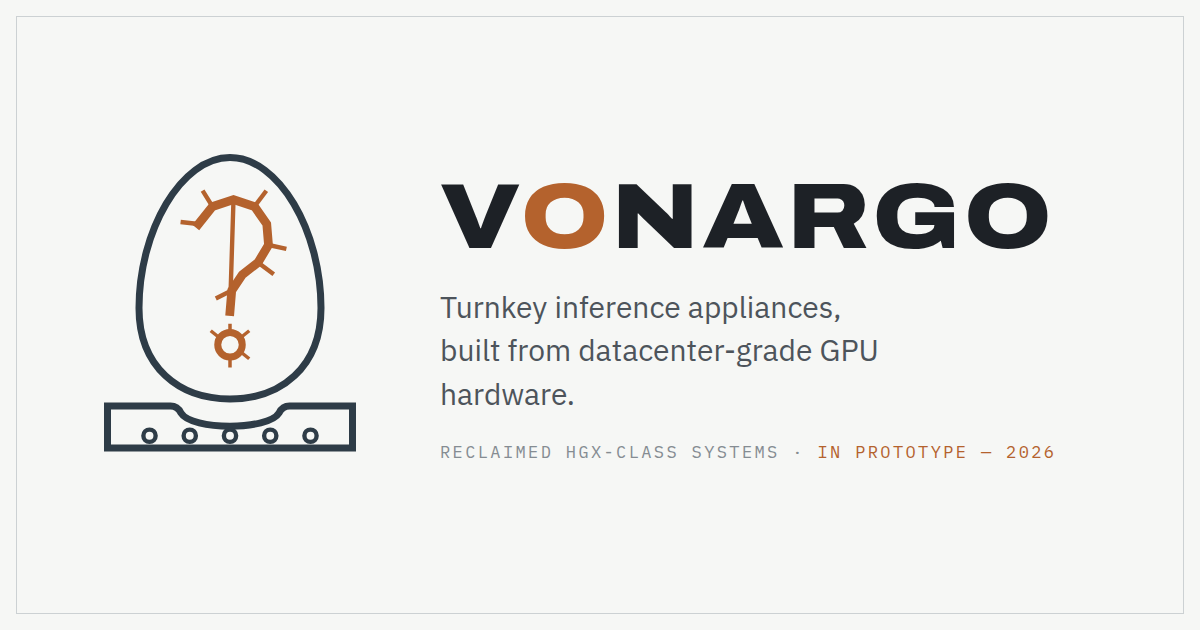
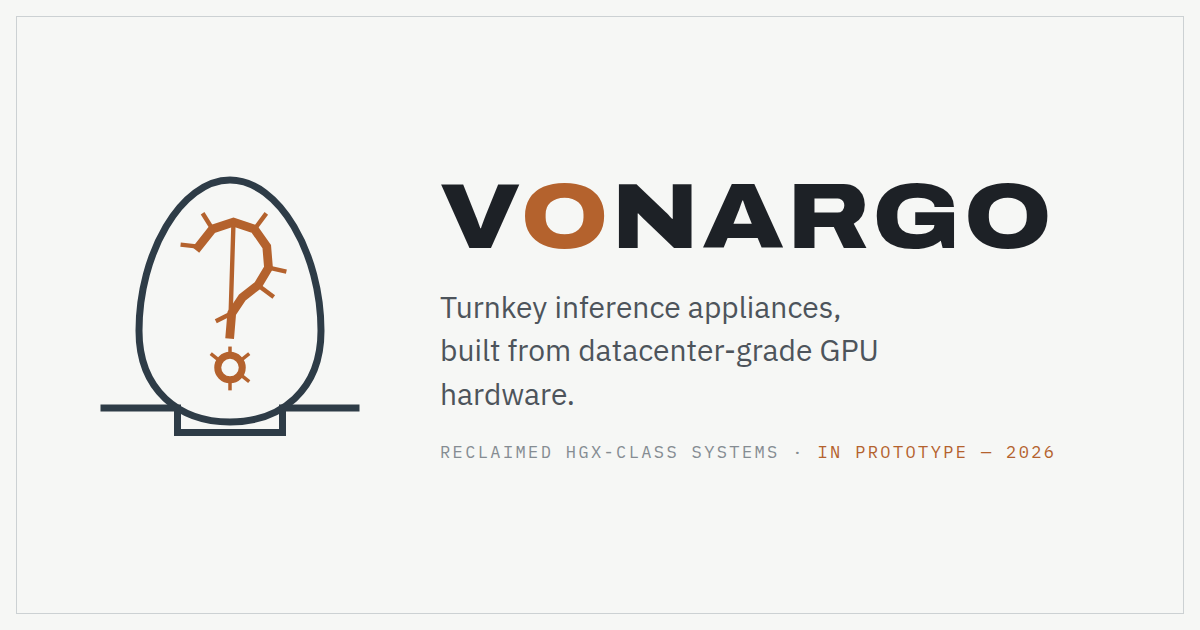
Cold plate simplified to depression outline; lockup joins the nameplate

Changed region(s): [[0.0617, 0.2413, 0.3083, 0.7238]]

diff --git a/index.html b/index.html
@@ -58,7 +58,7 @@ main{max-width:880px;margin:0 auto;padding:calc(var(--frame) + 4vw) 2rem 0}
 /* ── nameplate ───────────────────────────────────────────── */
 .nameplate{background:var(--slate);color:var(--slate-ink);
   border-radius:3px;padding:3.2rem 3rem 2.8rem;position:relative;overflow:hidden}
-.nameplate .mark{position:absolute;top:1.8rem;right:3rem;width:44px;height:55px}
+.nameplate .mark{position:absolute;top:1.8rem;right:3rem;width:52px;height:60px}
 .wordmark{font-family:var(--display);font-weight:850;font-stretch:118%;
   font-size:clamp(2.5rem,7vw,4.1rem);letter-spacing:0.035em;line-height:1;
   margin:0;color:#fff}
@@ -151,7 +151,7 @@ footer{margin:4.5rem 0 0;padding-bottom:calc(var(--frame) + 2rem)}
   :root{--frame:10px}
   main{padding-left:1.2rem;padding-right:1.2rem}
   .nameplate{padding:2.4rem 1.6rem 2.2rem}
-  .nameplate .mark{top:1.4rem;right:1.6rem;width:36px;height:45px}
+  .nameplate .mark{top:1.4rem;right:1.6rem;width:40px;height:46px}
   .pipeline{grid-template-columns:1fr}
   .titleblock{max-width:none}
 }
@@ -163,23 +163,26 @@ footer{margin:4.5rem 0 0;padding-bottom:calc(var(--frame) + 2rem)}
 
 <main>
   <header class="nameplate">
-    <svg class="mark" viewBox="0 0 120 150" aria-hidden="true">
-      <path d="M60 6 C 88 6, 112 48, 112 92 C 112 126, 89 144, 60 144 C 31 144, 8 126, 8 92 C 8 48, 32 6, 60 6 Z" fill="none" stroke="#8fa0ab" stroke-width="4"/>
-      <g stroke="#c97b45" fill="none" stroke-width="5" stroke-linecap="square" stroke-linejoin="miter">
-        <path d="M42 44 L50 34 L62 30 L74 34 L81 44 L82 56 L76 66 L67 73 L61 82 L60 94"/>
-        <path d="M50 34 L45 26" stroke-width="2.5"/>
-        <path d="M74 34 L80 26" stroke-width="2.5"/>
-        <path d="M82 56 L91 58" stroke-width="2.5"/>
-        <path d="M76 66 L84 72" stroke-width="2.5"/>
-        <path d="M61 82 L53 86" stroke-width="2.5"/>
-        <path d="M42 44 L33 43" stroke-width="2.5"/>
+    <svg class="mark" viewBox="0 0 160 186" aria-hidden="true">
+      <g transform="translate(20,10)">
+        <path d="M60 6 C 88 6, 112 48, 112 92 C 112 126, 89 144, 60 144 C 31 144, 8 126, 8 92 C 8 48, 32 6, 60 6 Z" fill="none" stroke="#8fa0ab" stroke-width="4"/>
+        <g stroke="#c97b45" fill="none" stroke-width="5" stroke-linecap="square" stroke-linejoin="miter">
+          <path d="M42 44 L50 34 L62 30 L74 34 L81 44 L82 56 L76 66 L67 73 L61 82 L60 94"/>
+          <path d="M50 34 L45 26" stroke-width="2.5"/>
+          <path d="M74 34 L80 26" stroke-width="2.5"/>
+          <path d="M82 56 L91 58" stroke-width="2.5"/>
+          <path d="M76 66 L84 72" stroke-width="2.5"/>
+          <path d="M61 82 L53 86" stroke-width="2.5"/>
+          <path d="M42 44 L33 43" stroke-width="2.5"/>
+        </g>
+        <path d="M62 30 L60 94" stroke="#c97b45" stroke-width="2.5" fill="none" stroke-linecap="square"/>
+        <g stroke="#c97b45" fill="none" stroke-width="4"><circle cx="60" cy="113" r="7"/></g>
+        <g stroke="#c97b45" fill="none" stroke-width="2">
+          <path d="M60 106 L60 101"/><path d="M66 109 L71 105"/><path d="M54 109 L49 105"/>
+          <path d="M60 120 L60 126"/><path d="M66 117 L71 121"/>
+        </g>
       </g>
-      <path d="M62 30 L60 94" stroke="#c97b45" stroke-width="2.5" fill="none" stroke-linecap="square"/>
-      <g stroke="#c97b45" fill="none" stroke-width="4"><circle cx="60" cy="113" r="7"/></g>
-      <g stroke="#c97b45" fill="none" stroke-width="2">
-        <path d="M60 106 L60 101"/><path d="M66 109 L71 105"/><path d="M54 109 L49 105"/>
-        <path d="M60 120 L60 126"/><path d="M66 117 L71 121"/>
-      </g>
+      <path d="M8 146 L50 146 L50 160 L110 160 L110 146 L152 146" fill="none" stroke="#8fa0ab" stroke-width="4" stroke-linecap="square" stroke-linejoin="miter"/>
     </svg>
     <h1 class="wordmark">V<span class="o">O</span>NARGO</h1>
     <p class="thesis">Turnkey inference appliances, built from datacenter-grade GPU hardware.</p>